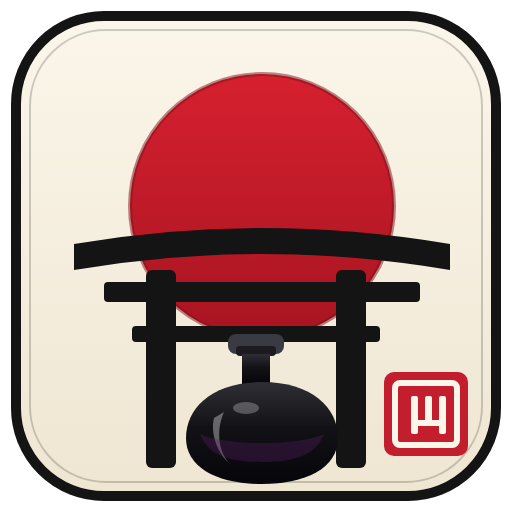
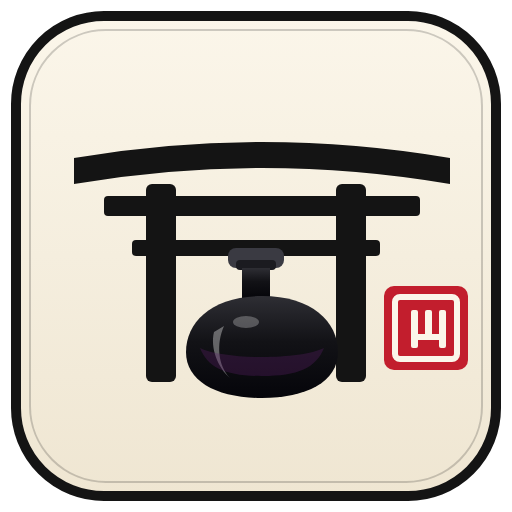
change: 图标去掉朱日红圆，构图整体上移居中（1.2.1）

diff --git a/README.md b/README.md
@@ -25,7 +25,7 @@ Minecraft **26.3** · Fabric **纯客户端** · 作者 **KujouShiori**
 ## 安装
 
 1. 装好 **Fabric Loader 0.19.5+**（Minecraft 26.3，Java 25）
-2. 把 `inkwell-1.2.0.jar` 丢进 `.minecraft/mods/`
+2. 把 `inkwell-1.2.1.jar` 丢进 `.minecraft/mods/`
 3. 启动游戏，日志里会出现 `Inkwell 已加载 | …`
 
 不需要装 Fabric API，也不用装服务端。
@@ -105,7 +105,7 @@ debug=false               # 打印每个按键事件
 ./gradlew build          # Windows: gradlew.bat build
 ```
 
-产物在 `build/libs/inkwell-1.2.0.jar`。
+产物在 `build/libs/inkwell-1.2.1.jar`。
 
 > **关于映射**：Minecraft 26.3 的客户端**本身没有混淆**——Mojang 的 version json 里已经没有
 > `client_mappings`，Fabric 的 intermediary 也是只有表头的空表。所以本项目不需要 Remap：

diff --git a/README.en.md b/README.en.md
@@ -28,7 +28,7 @@ pixel measurements, so every page actually fits on screen.
 ## Install
 
 1. Install **Fabric Loader 0.19.5+** for Minecraft 26.3 (Java 25)
-2. Drop `inkwell-1.2.0.jar` into `.minecraft/mods/`
+2. Drop `inkwell-1.2.1.jar` into `.minecraft/mods/`
 3. Launch — the log shows `Inkwell 已加载 | ...` (Inkwell loaded)
 
 No Fabric API needed. Nothing goes on the server.
@@ -105,7 +105,7 @@ Markdown conversion table, capacity, FAQ).
 ./gradlew build        # Windows: gradlew.bat build
 ```
 
-The jar lands in `build/libs/inkwell-1.2.0.jar`.
+The jar lands in `build/libs/inkwell-1.2.1.jar`.
 
 > **About mappings:** Minecraft 26.3 ships **unobfuscated** — Mojang's version JSON no longer
 > includes `client_mappings`, and Fabric's intermediary table is empty (header only). So no

diff --git a/CHANGELOG.md b/CHANGELOG.md
@@ -2,6 +2,13 @@
 
 所有值得记录的改动。格式参考 [Keep a Changelog](https://keepachangelog.com/zh-CN/1.1.0/)。
 
+## [1.2.1] - 2026-11-08
+
+### 变更
+
+- 图标去掉背后的朱日红圆，只留和纸 + 鸟居 + 墨水瓶 + 朱印
+- 图形整体上移居中（原来的构图依赖太阳撑起上半部分）
+
 ## [1.2.0] - 2026-11-08
 
 ### 新增
